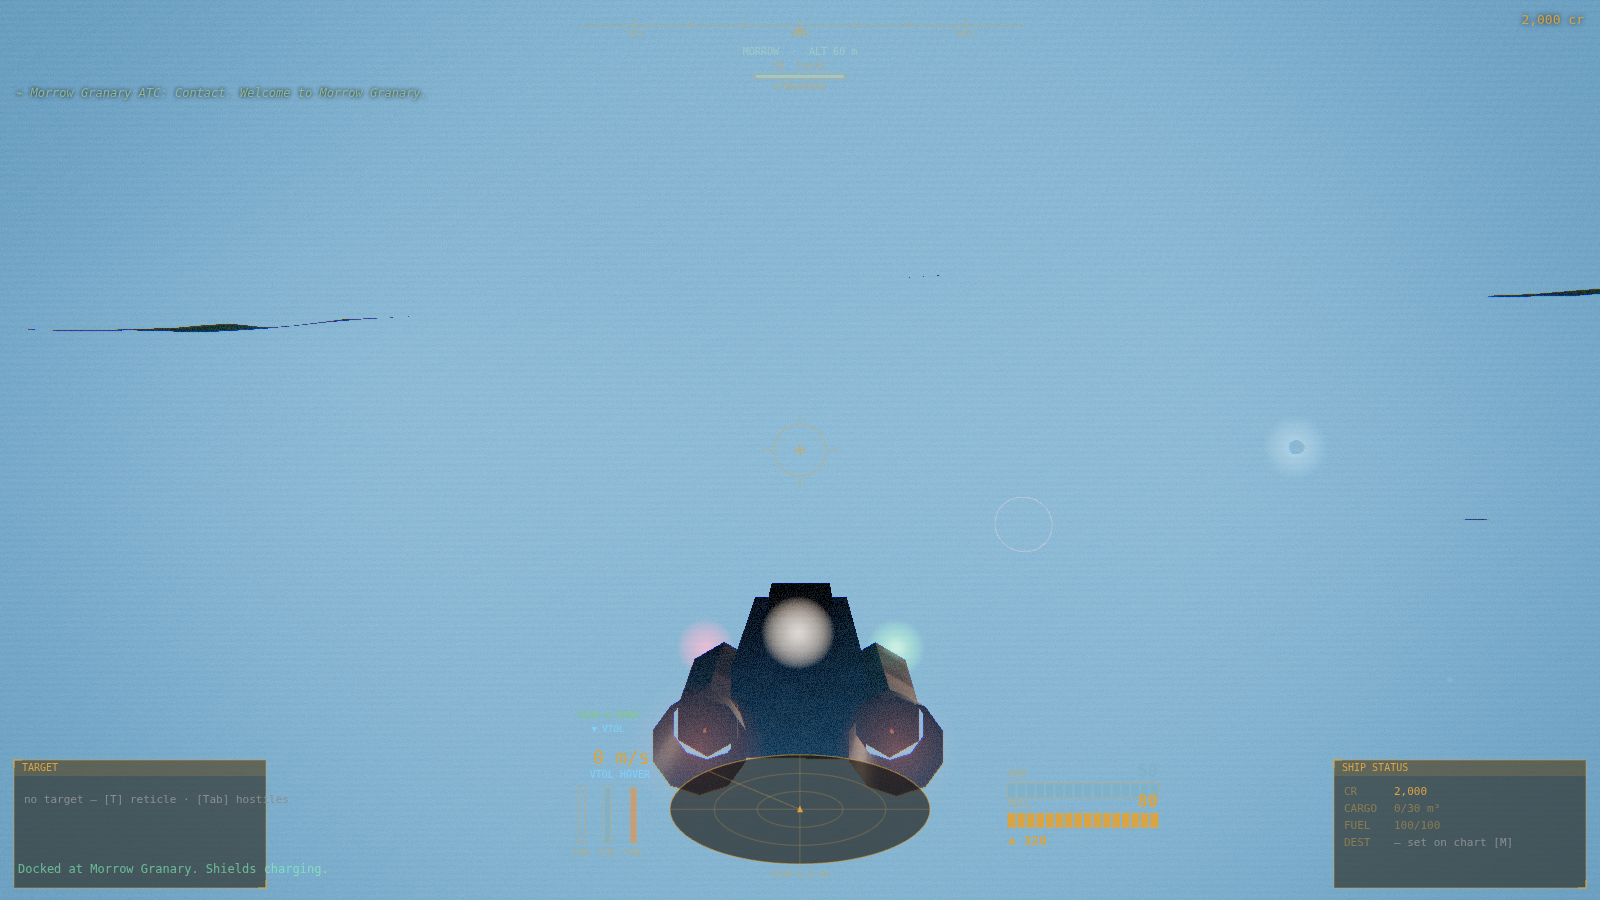
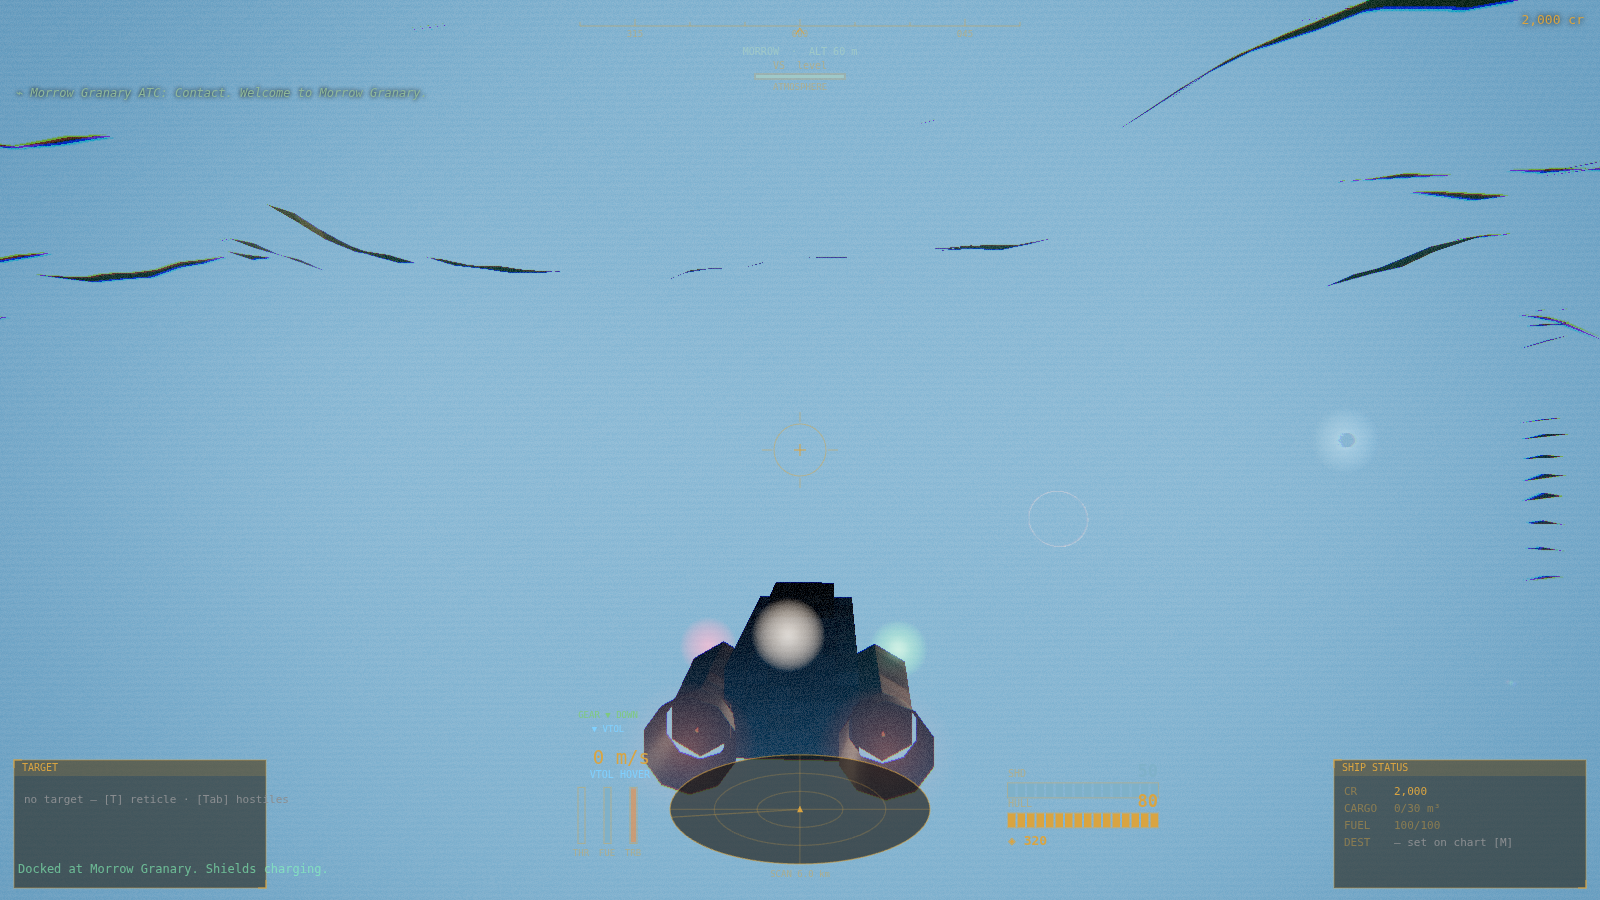
Richer descent terrain + a fly-in landing regression test
- Terrain patch: domain-warped ridgelines that meander like real mountain
  chains, a large-scale highlands/basin mask so it isn't uniformly busy,
  six octaves with a valley bias for sharp peaks, and slope shading so steep
  faces show bare rock. Fades in higher (4.2 km) and reaches farther (16 km)
  so the descent has relief the whole way down instead of a flat plate that
  pops in late. (Hand-rolled fbm — no new deps, in keeping with the
  zero-asset procedural design.)
- Added an end-to-end test: you can fly in through the open hatch into the
  hangar and the hull never lets you through elsewhere — guards the docking
  corridor against regressions. 98 specs green.

Claude-Session: https://claude.ai/code/session_01VvnmRjsLKtsm6xpXqA9AAk

diff --git a/src/render/terrain.ts b/src/render/terrain.ts
@@ -2,8 +2,8 @@
 // scene; once you drop close to the surface this lays a procedural ground patch
 // in the near scene, centred under the ship and oriented to the local horizon,
 // so you actually descend onto real terrain with relief — mountains, valleys,
-// height-shaded — not a flat plane. Cosmetic (collision is still the sphere,
-// which is flat at planet scale); distance haze hides the patch edge.
+// ridgelines, slope-shaded — not a flat plane. Cosmetic (collision is still the
+// sphere, which is flat at planet scale); distance haze hides the patch edge.
 
 import * as THREE from 'three';
 import { fbm2 } from '../sim/rng';
@@ -11,18 +11,18 @@ import type { PlanetKind, SystemDef } from '../sim/types';
 import { atmoHeight, atmosphereAt } from '../sim/system';
 import type { SceneManager } from './scene';
 
-const SIZE = 13000;    // patch span (m) — reaches past the low-altitude horizon
-const SEG = 72;        // grid resolution
-const VISIBLE_ALT = 2200; // near patch adds touchdown detail; the far planet has its own relief for the descent
+const SIZE = 16000;    // patch span (m) — reaches well past the low-altitude horizon
+const SEG = 84;        // grid resolution
+const VISIBLE_ALT = 4200; // the patch fades in this high so the descent has relief, not a late pop
 
 // base palette + how dramatic the relief is, per world kind
-const GROUND: Record<PlanetKind, { lo: THREE.Color; hi: THREE.Color; amp: number; freq: number; ridged: boolean }> = {
-  rocky:  { lo: new THREE.Color(0x4a4138), hi: new THREE.Color(0x8a7d6a), amp: 1500, freq: 1, ridged: true },
-  terran: { lo: new THREE.Color(0x2e4a2a), hi: new THREE.Color(0x9a8d63), amp: 1100, freq: 0.9, ridged: true },
-  barren: { lo: new THREE.Color(0x564f45), hi: new THREE.Color(0x938a7c), amp: 1300, freq: 1.1, ridged: true },
-  ice:    { lo: new THREE.Color(0x8fa6b4), hi: new THREE.Color(0xeaf4fb), amp: 800, freq: 0.8, ridged: false },
-  lava:   { lo: new THREE.Color(0x1c100c), hi: new THREE.Color(0xc24a18), amp: 1400, freq: 1.2, ridged: true },
-  gas:    { lo: new THREE.Color(0x53536a), hi: new THREE.Color(0x9a9ac0), amp: 400, freq: 0.6, ridged: false },
+const GROUND: Record<PlanetKind, { lo: THREE.Color; hi: THREE.Color; rock: THREE.Color; amp: number; freq: number; ridged: boolean }> = {
+  rocky:  { lo: new THREE.Color(0x4a4138), hi: new THREE.Color(0x9c8d76), rock: new THREE.Color(0x332c25), amp: 2200, freq: 1, ridged: true },
+  terran: { lo: new THREE.Color(0x33502c), hi: new THREE.Color(0xa59a6d), rock: new THREE.Color(0x4b3f30), amp: 1900, freq: 0.95, ridged: true },
+  barren: { lo: new THREE.Color(0x564f45), hi: new THREE.Color(0xa39a8a), rock: new THREE.Color(0x3a342c), amp: 2000, freq: 1.1, ridged: true },
+  ice:    { lo: new THREE.Color(0x8fa6b4), hi: new THREE.Color(0xf2f9ff), rock: new THREE.Color(0x6b8290), amp: 1300, freq: 0.8, ridged: false },
+  lava:   { lo: new THREE.Color(0x1c100c), hi: new THREE.Color(0xd6571c), rock: new THREE.Color(0x140a07), amp: 2100, freq: 1.2, ridged: true },
+  gas:    { lo: new THREE.Color(0x53536a), hi: new THREE.Color(0x9a9ac0), rock: new THREE.Color(0x3c3c50), amp: 700, freq: 0.6, ridged: false },
 };
 
 export class TerrainPatch {
@@ -35,6 +35,7 @@ export class TerrainPatch {
   private gp = new THREE.Vector3();
   private colors: Float32Array;
   private tmpCol = new THREE.Color();
+  private tmpRock = new THREE.Color();
 
   constructor(private sm: SceneManager) {
     const geo = new THREE.PlaneGeometry(SIZE, SIZE, SEG, SEG);
@@ -50,19 +51,30 @@ export class TerrainPatch {
     sm.near.add(this.mesh);
   }
 
-  // ridged/billowed multi-octave height in metres at a world tangent coordinate
+  // ridged/billowed multi-octave height in metres at a world tangent coordinate.
+  // A low-frequency domain warp bends the ridgelines so they meander like real
+  // mountain chains instead of gridded bumps; high octaves add rocky detail.
   private heightAt(u: number, v: number, seed: number, def: typeof GROUND[PlanetKind]): number {
-    const f = 0.00009 * def.freq;
+    const f = 0.00011 * def.freq;
+    // domain warp
+    const wx = fbm2(u * f * 0.35 + 19, v * f * 0.35, seed + 711, 1) - 0.5;
+    const wy = fbm2(u * f * 0.35, v * f * 0.35 - 23, seed + 913, 1) - 0.5;
+    const uu = u + wx * 4200;
+    const vv = v + wy * 4200;
+    // large-scale highlands vs basins, so the patch isn't uniformly busy
+    const cont = fbm2(uu * f * 0.45, vv * f * 0.45, seed + 41, 1); // 0..1
     let h = 0, amp = 1, freq = 1, norm = 0;
-    for (let o = 0; o < 5; o++) {
-      let n = fbm2(u * f * freq, v * f * freq, seed + o * 131, 1); // 0..1
+    for (let o = 0; o < 6; o++) {
+      let n = fbm2(uu * f * freq, vv * f * freq, seed + o * 131, 1); // 0..1
       if (def.ridged) n = 1 - Math.abs(n * 2 - 1); // sharp ridges -> mountains
       h += n * amp;
       norm += amp;
-      amp *= 0.5;
-      freq *= 2.1;
+      amp *= 0.52;
+      freq *= 2.15;
     }
-    return (h / norm) * def.amp;
+    let hn = h / norm;
+    if (def.ridged) hn = Math.pow(hn, 1.4); // bias toward valleys with sharp peaks
+    return hn * def.amp * (0.45 + cont * 0.9);
   }
 
   // shipPos: player world position; called every frame
@@ -95,27 +107,35 @@ export class TerrainPatch {
     const pos = geo.attributes.position as THREE.BufferAttribute;
     const col = geo.attributes.color as THREE.BufferAttribute;
     const half = SIZE * 0.5;
+    // pass 1: heights
     for (let i = 0; i < pos.count; i++) {
       const lx = pos.getX(i), ly = pos.getY(i);
-      // world tangent coords for stable noise as the patch tracks the ship
       const u = wx + this.t1.x * lx + this.t2.x * ly;
       const vv = wz + this.t1.z * lx + this.t2.z * ly;
       const h = this.heightAt(u, vv, seed, def);
       // sink the patch edges so it tucks under the horizon haze, no hard rim
       const edge = Math.max(Math.abs(lx), Math.abs(ly)) / half;
-      const fade = edge > 0.7 ? (edge - 0.7) / 0.3 : 0;
-      pos.setZ(i, h - fade * fade * def.amp * 1.4);
-      // height shading + slope-ish variation
-      const t = Math.min(1, h / def.amp);
-      this.tmpCol.copy(def.lo).lerp(def.hi, t * t);
-      col.setXYZ(i, this.tmpCol.r, this.tmpCol.g, this.tmpCol.b);
+      const fade = edge > 0.62 ? (edge - 0.62) / 0.38 : 0;
+      pos.setZ(i, h - fade * fade * def.amp * 1.6);
     }
     pos.needsUpdate = true;
-    col.needsUpdate = true;
     geo.computeVertexNormals();
+    // pass 2: shade by height AND slope (steep faces show bare rock)
+    const nor = geo.attributes.normal as THREE.BufferAttribute;
+    for (let i = 0; i < pos.count; i++) {
+      const h = pos.getZ(i);
+      const t = Math.min(1, Math.max(0, h / def.amp));
+      this.tmpCol.copy(def.lo).lerp(def.hi, t * t);
+      const slope = 1 - Math.min(1, Math.max(0, nor.getZ(i))); // 0 flat .. 1 cliff
+      const rockMix = Math.min(1, slope * 1.8);
+      this.tmpRock.copy(def.rock);
+      this.tmpCol.lerp(this.tmpRock, rockMix * 0.8);
+      col.setXYZ(i, this.tmpCol.r, this.tmpCol.g, this.tmpCol.b);
+    }
+    col.needsUpdate = true;
     // self-illumination rises as you get very low so a night-side landing isn't
     // pitch black, while high passes stay sunlit
-    this.mat.emissiveIntensity = 0.18 + 0.3 * (1 - Math.min(1, atmo.altitude / atmoHeight(p)));
+    this.mat.emissiveIntensity = 0.16 + 0.28 * (1 - Math.min(1, atmo.altitude / atmoHeight(p)));
     this.mat.emissive.copy(def.lo).multiplyScalar(0.6);
     this.mesh.visible = true;
   }

diff --git a/tests/sim.test.ts b/tests/sim.test.ts
@@ -4,7 +4,7 @@ import { DT, emptyShipInput } from '../src/sim/types';
 import { integrateFlight } from '../src/sim/flight';
 import { isLandable } from '../src/sim/system';
 import { hangarFrame, padPoint } from '../src/sim/docking';
-import { qLookAt, vadd, vdist, vlen, vnorm, vscale, vsub, v3 } from '../src/sim/vec';
+import { qLookAt, vadd, vdist, vdot, vlen, vnorm, vscale, vsub, v3 } from '../src/sim/vec';
 
 function makeSim(): Sim {
   return new Sim();
@@ -271,6 +271,29 @@ describe('docking', () => {
     expect(e.dockedAt).toBe('morrow_granary'); // starts docked
     sim.undock(pid);
     expect(e.dockedAt).toBeNull();
+  });
+
+  it('you can fly in through the open hatch into the hangar (#5)', () => {
+    const sim = makeSim();
+    const pid = sim.addPlayer('tester');
+    sim.undock(pid);
+    const e = sim.entities.get(pid)!;
+    const meta = sim.meta(pid)!;
+    meta.undockInvuln = 0;
+    meta.flightAssist = false;
+    const st = sim.system.stations[0];
+    const fr = hangarFrame(st);
+    const mouth = vadd(st.pos, vscale(fr.f, fr.HZ));
+    e.pos = vadd(mouth, vscale(fr.f, 150)); // just outside the slot, lined up
+    e.orient = qLookAt(vscale(fr.f, -1));
+    e.vel = vscale(fr.f, -50); // drift straight in, under the hull
+    runTicks(sim, 20 * 8);
+    const rel = vsub(e.pos, st.pos);
+    const a = vdot(rel, fr.f), pu = vdot(rel, fr.u), pv = vdot(rel, fr.v);
+    expect(a).toBeLessThan(fr.mouthA);     // made it past the mouth plane
+    expect(a).toBeGreaterThan(fr.backA);   // not pushed through the back wall
+    expect(Math.abs(pu)).toBeLessThan(fr.HW); // still within the slot, not ejected
+    expect(Math.abs(pv)).toBeLessThan(fr.HH);
   });
 
   it('will not dock you while still outside the hangar — no auto-suck (#17)', () => {
